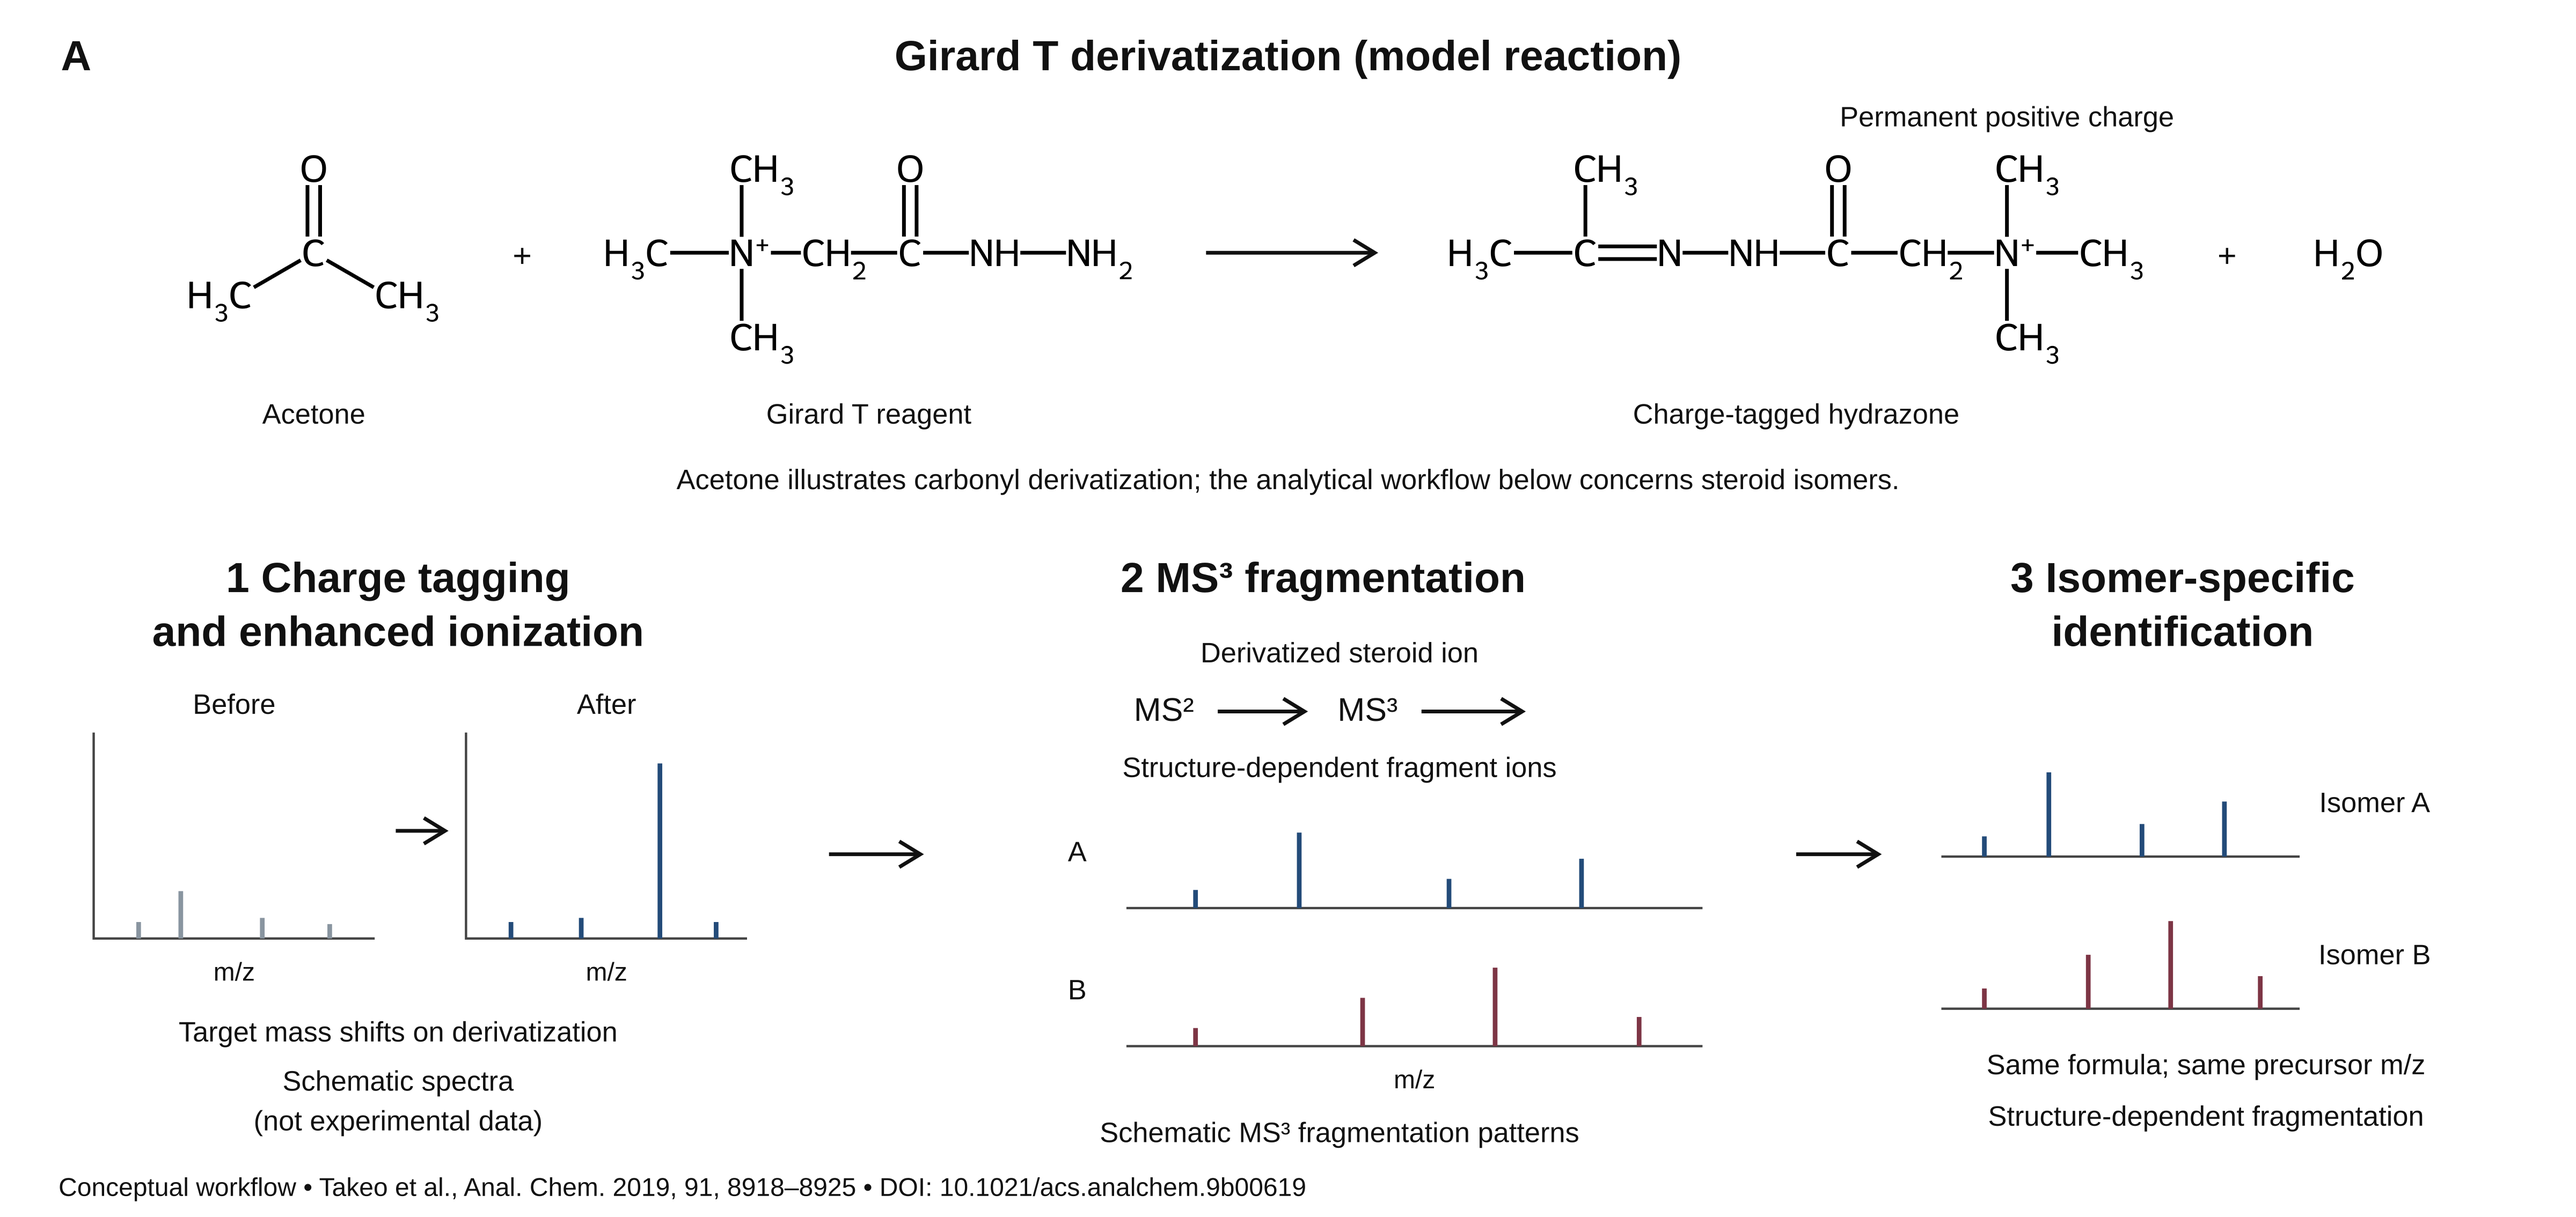
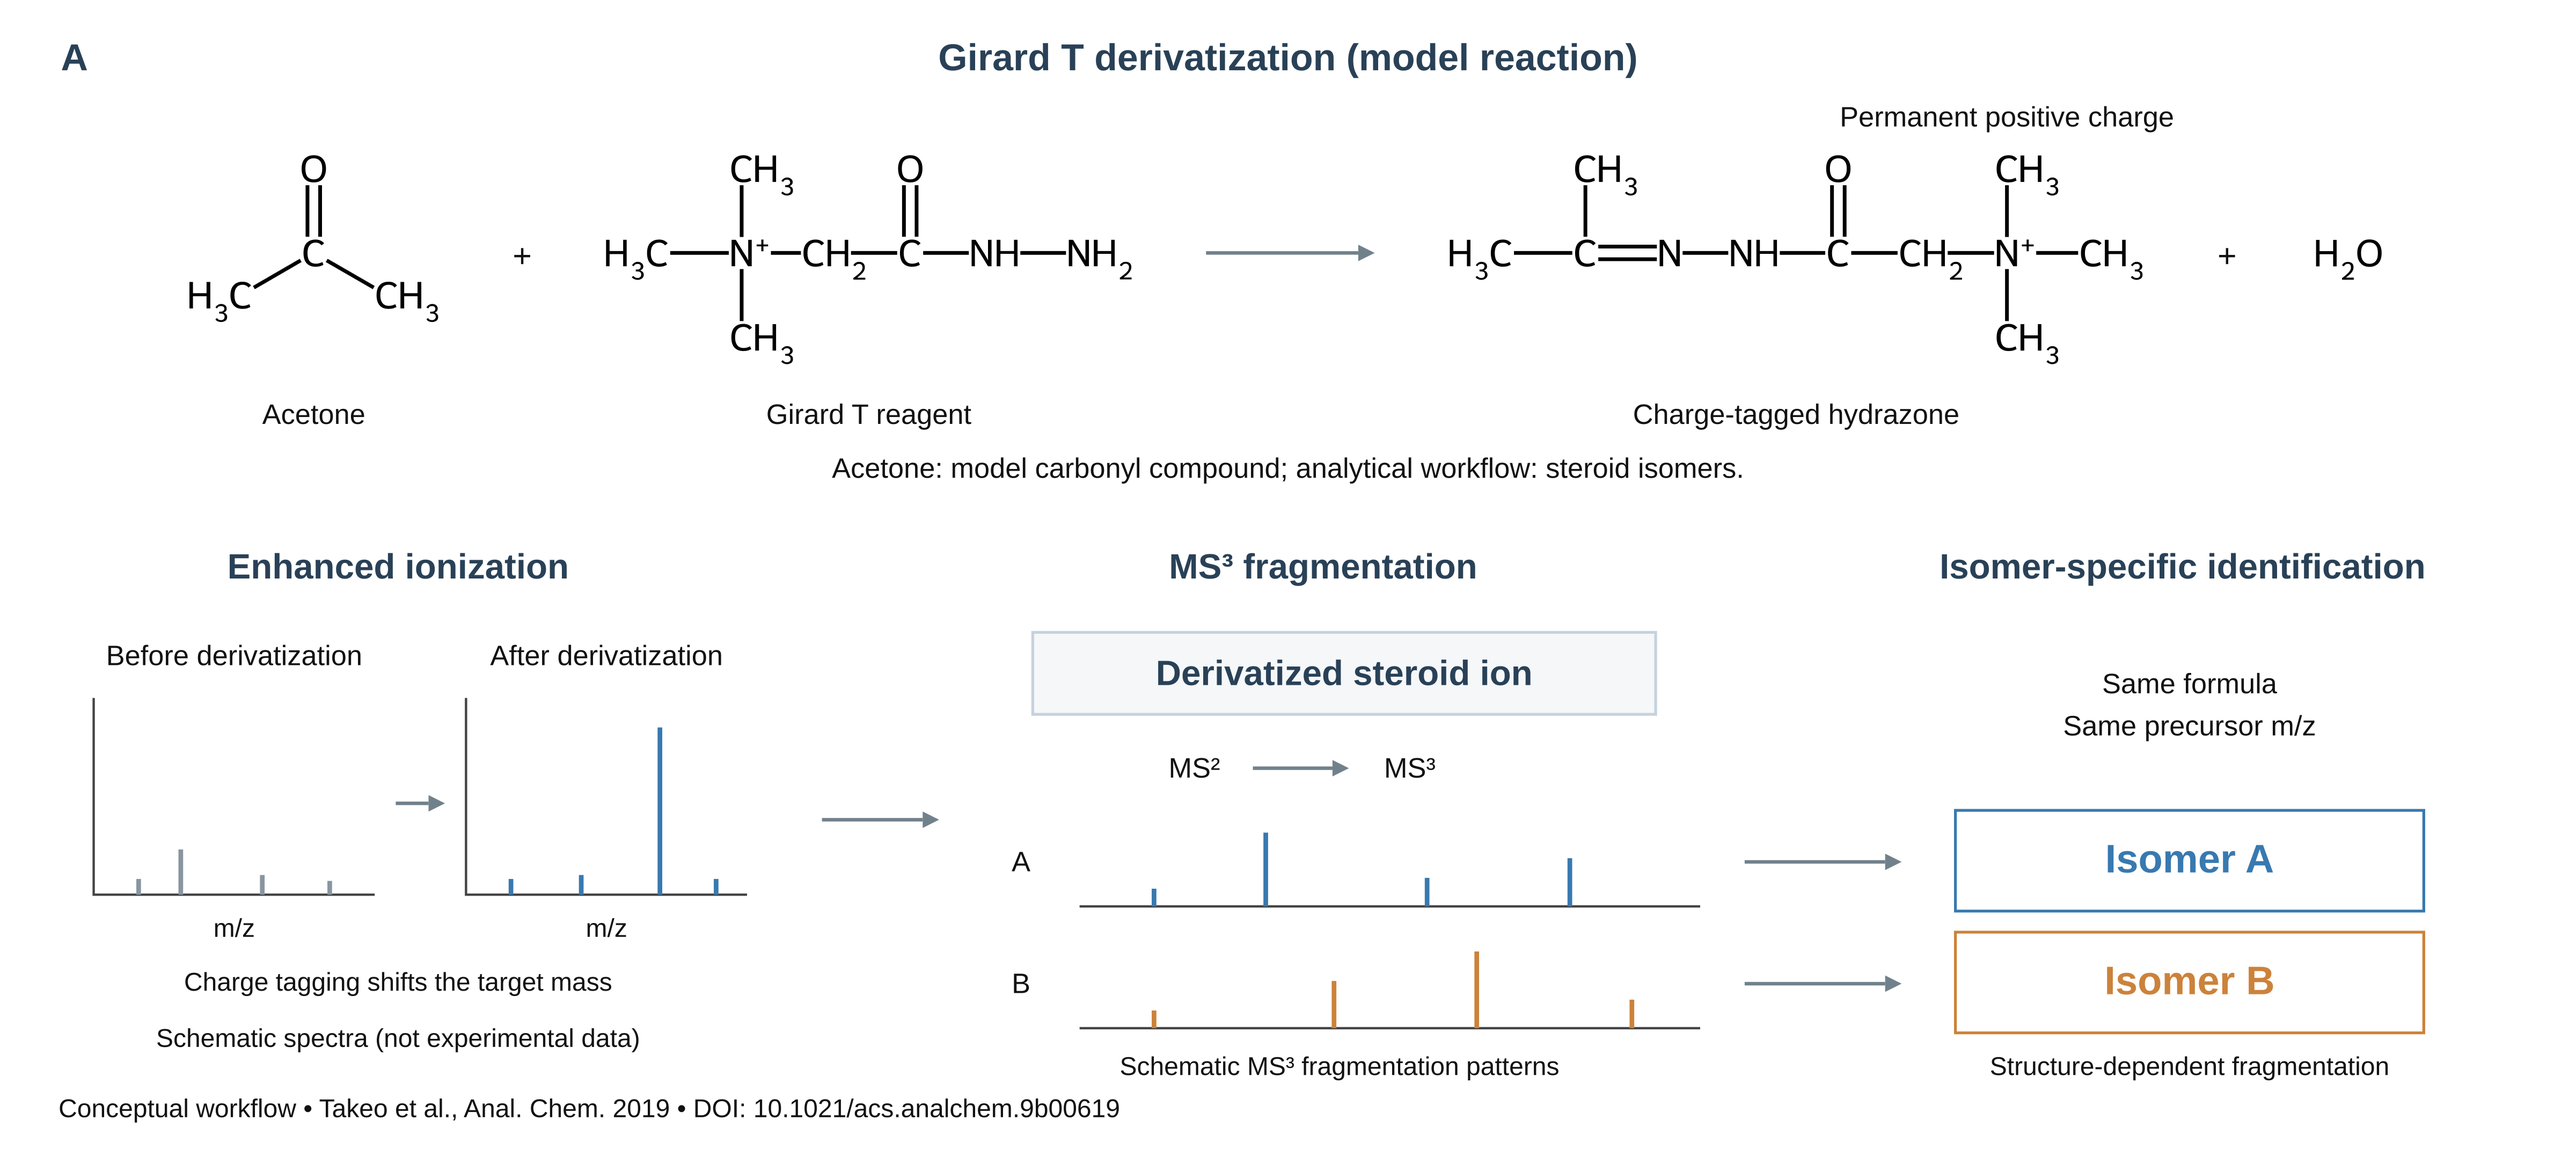
Restyle Girard T panel with thin boxes and blue orange identification

diff --git a/figures/girard_t_isomer_A.py b/figures/girard_t_isomer_A.py
@@ -55,9 +55,9 @@ from codex_organic_chem.service import chem_normalize_structure,chem_reaction_an
 for smi in strings[:4]:
     assert chem_normalize_structure(smi).get('canonical_smiles')
 assert chem_reaction_analyze('.'.join(strings[:2])+'>>'+'.'.join(strings[2:4]))['analysis']['mass_charge_balance']['status']=='balanced'
-width=1100;height=520;y=108
+width=1100;height=494;y=108
 parts=[f'<svg xmlns="http://www.w3.org/2000/svg" width="{width}" height="{height}" viewBox="0 0 {width} {height}">',
-'<style>text{font-family:Arial,Helvetica,sans-serif;fill:#111}.head{font-size:18px;font-weight:600}.label{font-size:14px}.small{font-size:12px}.tiny{font-size:11px}.blue{fill:#234B79}.rxnArrow,.arrowHead{stroke:#111;stroke-width:1.6;fill:none}.arrowLabel{font-size:13px}.axis{stroke:#444;stroke-width:1;fill:none}.peak{stroke-width:2;fill:none}</style>',f'<rect width="{width}" height="{height}" fill="white"/>']
+'<style>text{font-family:Arial,Helvetica,sans-serif;fill:#111}.head{font-size:16px;font-weight:600;fill:#294157}.stage{font-size:15px;font-weight:600;fill:#294157}.resultA{font-size:17px;font-weight:600;fill:#3879B0}.resultB{font-size:17px;font-weight:600;fill:#CC823A}.label{font-size:14px}.small{font-size:12px}.tiny{font-size:11px}.blue{fill:#234B79}.rxnArrow,.arrowHead{stroke:#111;stroke-width:1.6;fill:none}.arrowLabel{font-size:13px}.axis{stroke:#444;stroke-width:1;fill:none}.peak{stroke-width:2;fill:none}</style>',f'<rect width="{width}" height="{height}" fill="white"/>']
 els=[]
 def text(x,y,s,cls='label',anchor='middle'):
     parts.append(f'<text x="{x}" y="{y}" class="{cls}" text-anchor="{anchor}">{escape(s)}</text>')
@@ -66,7 +66,13 @@ def place(i,x,anchor,label):
     parts.append(f'<g transform="translate({x},{yy})">{d.svg_body}</g>')
     geo=d.translated_geometry(x,yy)
     els.append(FigureElement(kind='molecule',label=label,box=geo['ink_box'],bond_lengths_px=geo['bond_lengths_px'],label_boxes=geo['label_boxes']))
-def arrow(x1,yy,x2):parts.append(_arrow_svg(x1,yy,x2,'',''))
+def arrow(x1,yy,x2):
+    parts.append(f'<path d="M {x1} {yy} H {x2-7}" stroke="#71818B" stroke-width="1.5" fill="none"/><path d="M {x2-7} {yy-3.5} L {x2} {yy} L {x2-7} {yy+3.5} Z" fill="#71818B"/>')
+def box(x,yy,w,h,label,kind='input'):
+    color={'input':'#C5D2DD','A':'#3879B0','B':'#CC823A'}[kind]
+    fill='#F5F7F9' if kind=='input' else '#FFFFFF'
+    parts.append(f'<rect x="{x}" y="{yy}" width="{w}" height="{h}" fill="{fill}" stroke="{color}" stroke-width="1.2"/>')
+    text(x+w/2,yy+h/2+5,label,'stage' if kind=='input' else 'result'+kind)
 def plus(xx):text(xx,y+6,'+')
 text(26,30,'A','head','start');text(width/2,30,'Girard T derivatization (model reaction)','head')
 rowwidth=a.width+g.width+h.width+w.width+2*44+108
@@ -78,12 +84,12 @@ hx=x;place(2,x,2,'Girard T hydrazone');text(x+h.width/2,181,'Charge-tagged hydra
 idx=items[2][1][10];nx=hx+h.atom_points[idx][0]
 text(nx,54,'Permanent positive charge','small')
 x+=h.width+22;plus(x);x+=22;place(3,x,3,'water')
-text(width/2,209,'Acetone illustrates carbonyl derivatization; the analytical workflow below concerns steroid isomers.','small')
-# Three horizontal stages, no decorative panels. Same qualitative axes within each pair.
-text(170,253,'1  Charge tagging','head');text(170,276,'and enhanced ionization','head')
-text(565,253,'2  MS³ fragmentation','head')
-text(932,253,'3  Isomer-specific','head');text(932,276,'identification','head')
-arrow(354,365,393);arrow(767,365,802)
+text(width/2,204,'Acetone: model carbonyl compound; analytical workflow: steroid isomers.','small')
+# Restrained thin-box styling following the user's reference.
+text(170,247,'Enhanced ionization','stage')
+text(565,247,'MS³ fragmentation','stage')
+text(932,247,'Isomer-specific identification','stage')
+arrow(351,350,401)
 def spectrum(x,baseline,w,h,peaks,color,axes=True,xlabel=True):
     if axes:parts.append(f'<path class="axis" d="M {x} {baseline-h} V {baseline} H {x+w}"/>')
     else:parts.append(f'<path class="axis" d="M {x} {baseline} H {x+w}"/>')
@@ -93,25 +99,23 @@ def spectrum(x,baseline,w,h,peaks,color,axes=True,xlabel=True):
 # Non-experimental example targets shift in m/z upon derivatization.
 pre=[(.16,.08),(.31,.23),(.60,.10),(.84,.07)]
 post=[(.16,.08),(.41,.10),(.69,.85),(.89,.08)]
-spectrum(40,401,120,88,pre,'#8995A0');spectrum(199,401,120,88,post,'#234B79')
-text(100,305,'Before','small');text(259,305,'After','small');arrow(169,355,190)
-text(170,445,'Target mass shifts on derivatization','small')
-text(170,466,'Schematic spectra','small');text(170,483,'(not experimental data)','small')
-# Isomers refer to a conceptual pair sharing formula and charge, not named compounds.
-text(572,283,'Derivatized steroid ion','small')
-text(497,308,'MS²','label');arrow(520,304,557);text(584,308,'MS³','label');arrow(607,304,650)
-text(572,332,'Structure-dependent fragment ions','small')
+spectrum(40,382,120,84,pre,'#8995A0');spectrum(199,382,120,84,post,'#3879B0')
+text(100,284,'Before derivatization','small');text(259,284,'After derivatization','small');arrow(169,343,190)
+text(170,423,'Charge tagging shifts the target mass','tiny')
+text(170,447,'Schematic spectra (not experimental data)','tiny')
+box(441,270,266,35,'Derivatized steroid ion')
+text(510,332,'MS²','small');arrow(535,328,576);text(602,332,'MS³','small')
 patternA=[(.12,.18),(.30,.75),(.56,.29),(.79,.49)]
 patternB=[(.12,.18),(.41,.48),(.64,.78),(.89,.29)]
-text(460,368,'A','small');spectrum(481,388,246,43,patternA,'#234B79',False,False)
-text(460,427,'B','small');spectrum(481,447,246,43,patternB,'#7D3545',False,True)
-text(572,488,'Schematic MS³ fragmentation patterns','small')
-# Reproduce the two concept patterns as matches, without a second precursor mass.
-spectrum(829,366,153,48,patternA,'#234B79',False,False);text(1014,347,'Isomer A','small')
-spectrum(829,431,153,48,patternB,'#7D3545',False,False);text(1014,412,'Isomer B','small')
-text(942,459,'Same formula; same precursor m/z','small')
-text(942,481,'Structure-dependent fragmentation','small')
-text(25,511,'Conceptual workflow • Takeo et al., Anal. Chem. 2019, 91, 8918–8925 • DOI: 10.1021/acs.analchem.9b00619','tiny','start')
+text(436,372,'A','small');spectrum(461,387,265,42,patternA,'#3879B0',False,False)
+text(436,424,'B','small');spectrum(461,439,265,42,patternB,'#CC823A',False,False)
+text(572,459,'Schematic MS³ fragmentation patterns','tiny')
+# Diagnostic pattern to identity: two separate arrows, no mass-based separation.
+arrow(745,368,812);arrow(745,420,812)
+box(835,346,200,43,'Isomer A','A');box(835,398,200,43,'Isomer B','B')
+text(935,296,'Same formula','small');text(935,314,'Same precursor m/z','small')
+text(935,459,'Structure-dependent fragmentation','tiny')
+text(25,477,'Conceptual workflow • Takeo et al., Anal. Chem. 2019 • DOI: 10.1021/acs.analchem.9b00619','tiny','start')
 parts.append('</svg>')
 root=ET.fromstring('\n'.join(parts));meta=ET.SubElement(root,'{http://www.w3.org/2000/svg}metadata')
 meta.text=json.dumps({'mapped_reaction':strings[:4],'element_hydrogen_charge_balance':'balanced; +1 on both sides','model':'acetone only; not actual steroid analyte','isomers':'Conceptual A and B are defined to share molecular formula, derivatization stoichiometry and precursor charge; no particular steroid or fragment assignment','spectra':'Entirely schematic; normalized arbitrary display coordinates, not experimental intensities or m/z; no enhancement factor asserted','reference':{'doi':'10.1021/acs.analchem.9b00619','experimental_fragment_structures':'not obtained; none drawn'},'source_file':'girard_t_isomer_A.py'},ensure_ascii=False)
